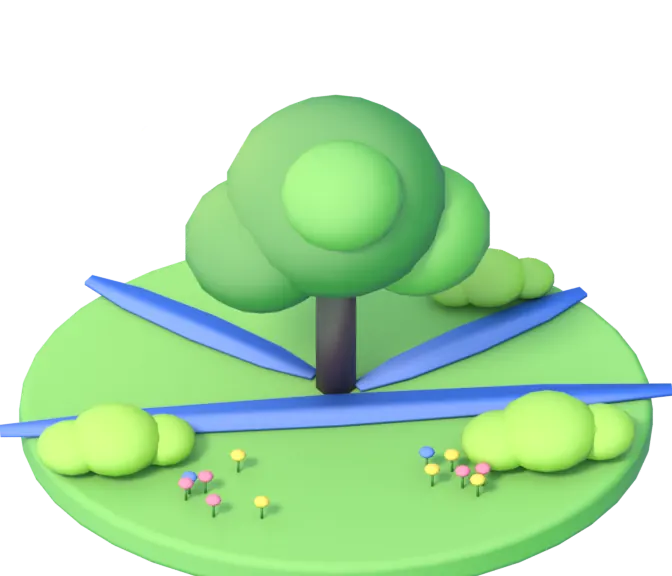
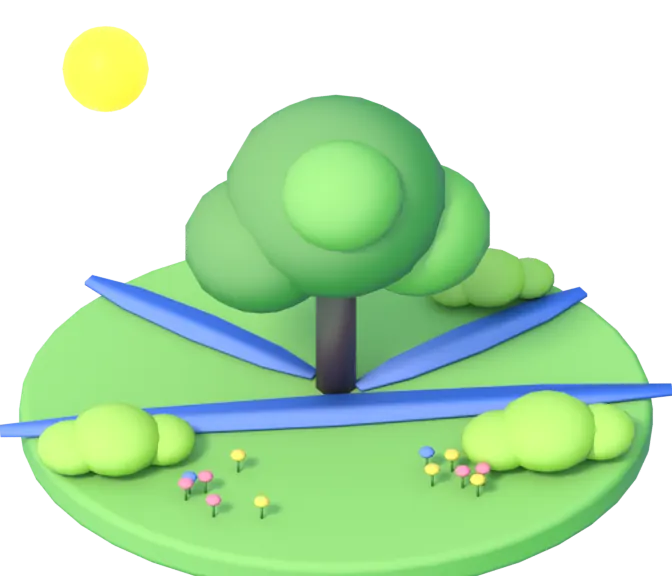
test(daily): road scene walk and reduced-motion tests; clamp landmark chip

Changed region(s): [[0.0938, 0.0312, 0.2188, 0.2188], [0.3438, 0.25, 0.375, 0.2812]]

diff --git a/test/features/daily/ui/road_scene_test.dart b/test/features/daily/ui/road_scene_test.dart
@@ -1,0 +1,59 @@
+import 'package:flutter/material.dart';
+import 'package:flutter_test/flutter_test.dart';
+import 'package:openbaptisthymnal/core/theme/app_theme.dart';
+import 'package:openbaptisthymnal/features/daily/ui/widgets/road_scene.dart';
+
+Widget _app(int day, {bool reduce = false}) => MaterialApp(
+      theme: AppTheme.lightTheme,
+      builder: (c, child) => MediaQuery(
+        data: MediaQuery.of(c).copyWith(disableAnimations: reduce),
+        child: child!,
+      ),
+      home: Scaffold(
+        body: RoadScene(
+          width: 390,
+          mood: RoadMood.day,
+          currentDay: day,
+          totalDays: 365,
+        ),
+      ),
+    );
+
+bool _walking(WidgetTester t) => t.binding.hasScheduledFrame;
+
+void main() {
+  testWidgets('Given a day is read, Then the traveller walks for a few seconds',
+      (t) async {
+    await t.pumpWidget(_app(1));
+    await t.pump(const Duration(milliseconds: 50));
+    await t.pumpWidget(_app(2));
+    await t.pump(const Duration(milliseconds: 1200));
+    // Still mid-walk after 1.2 s, so a frame is scheduled; it ends by ~2.6 s.
+    expect(_walking(t), isTrue);
+    await t.pump(const Duration(milliseconds: 1600));
+    expect(t.takeException(), isNull);
+  });
+
+  testWidgets('Given reduced motion, Then the road cuts to the new stop',
+      (t) async {
+    await t.pumpWidget(_app(1, reduce: true));
+    await t.pumpWidget(_app(2, reduce: true));
+    await t.pump(const Duration(milliseconds: 300));
+    // No ambient loop and no walk: nothing left to animate.
+    expect(_walking(t), isFalse);
+    expect(t.takeException(), isNull);
+  });
+
+  testWidgets('Given the plan is finished, Then it draws without a current stop',
+      (t) async {
+    await t.pumpWidget(MaterialApp(
+      theme: AppTheme.darkTheme,
+      home: const Scaffold(
+        body: RoadScene(
+            width: 390, mood: RoadMood.evening, currentDay: null, totalDays: 30),
+      ),
+    ));
+    await t.pump(const Duration(milliseconds: 100));
+    expect(t.takeException(), isNull);
+  });
+}

diff --git a/lib/features/daily/ui/widgets/road_scene.dart b/lib/features/daily/ui/widgets/road_scene.dart
@@ -473,7 +473,7 @@ class _RoadPainter extends CustomPainter {
       f.color = (h.isEven
               ? Color.lerp(base, const Color(0xFFFFFFFF), .18)!
               : Color.lerp(base, const Color(0xFF1B5E2A), .14)!)
-          .withValues(alpha: .55);
+          .withValues(alpha: .32);
       canvas.drawOval(
           Rect.fromCenter(center: Offset(wx + cam.dx * .98 + 0, wy + cam.dy), width: r * 2.2, height: r * 1.2), f);
     }
@@ -646,9 +646,10 @@ class _RoadPainter extends CustomPainter {
   }
 
   void _chip(Canvas canvas, Offset anchorBottomCenter, TextPainter tp, double alpha) {
+    final w = tp.width + 20;
+    final cx = anchorBottomCenter.dx.clamp(8 + w / 2, 382 - w / 2).toDouble();
     final r = RRect.fromRectAndRadius(
-        Rect.fromCenter(
-            center: anchorBottomCenter.translate(0, -12), width: tp.width + 20, height: tp.height + 10),
+        Rect.fromCenter(center: Offset(cx, anchorBottomCenter.dy - 12), width: w, height: tp.height + 10),
         const Radius.circular(LumRadius.full));
     cache.fill.color = c.scenePanel.withValues(alpha: alpha);
     canvas.drawRRect(r, cache.fill);
